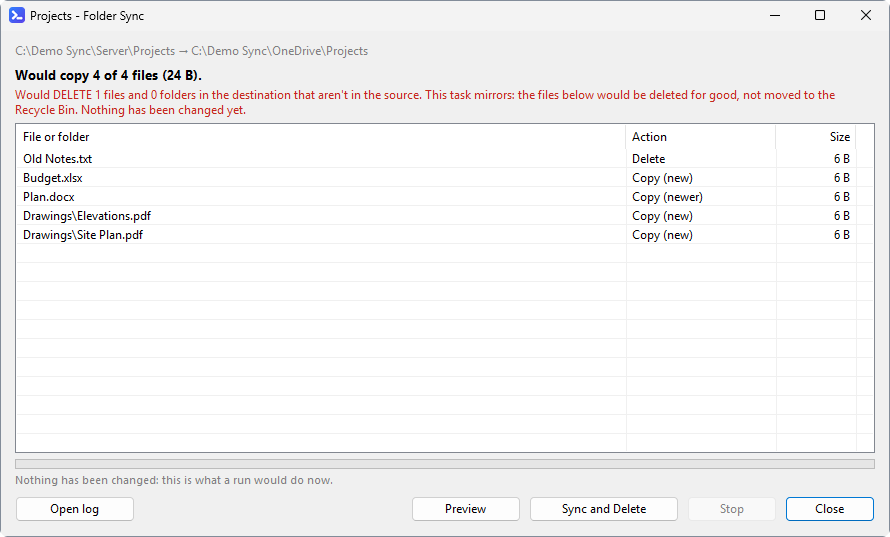
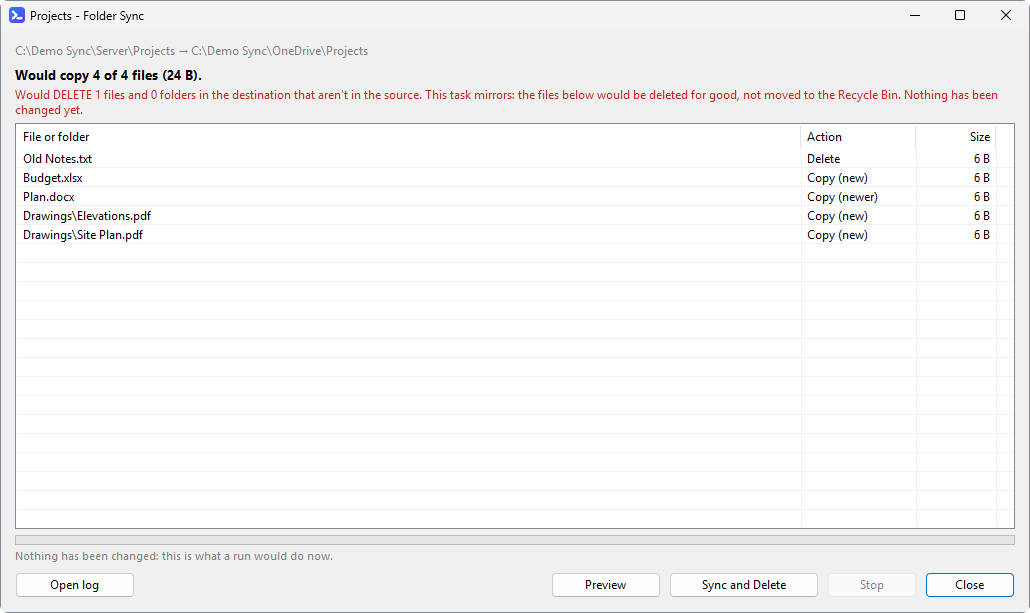
Folder Sync Window: Redraw When Resized, Fitted Action Column, Bigger by Default (Test Build 2026.11.03.8) (#377)
The Folder Sync window is redrawn after each layout (resizing left pieces of the texts and buttons behind), the Action column fits the longest action text in the current language, and the window is 1000 wide with 20 list rows by default.

diff --git a/CHANGELOG.md b/CHANGELOG.md
@@ -5,6 +5,18 @@
 
 ## [未发布]
 
+## [2026.11.03.8]
+
+测试版。
+
+Test build.
+
+### 改进
+- 文件夹同步窗口默认更大 (更宽、列表多显示几行); "操作" 一列按当前语言里最长的操作文字定宽, 多出来的宽度留给文件路径
+
+### 修复
+- 拖动改变文件夹同步窗口的大小时画面会花掉 (文字和按钮留下残影): 调整布局后整个窗口重新绘制
+
 ## [2026.11.03.7]
 
 测试版。
@@ -1107,7 +1119,8 @@ Smoother typing, easier to get started, and a few useful new features.
 ## 更早的版本
 见 [GitHub Releases](https://github.com/zhugecaomao/ALTRun/releases)。
 
-[未发布]: https://github.com/zhugecaomao/ALTRun/compare/2026.11.03.7...HEAD
+[未发布]: https://github.com/zhugecaomao/ALTRun/compare/2026.11.03.8...HEAD
+[2026.11.03.8]: https://github.com/zhugecaomao/ALTRun/compare/2026.11.03.7...2026.11.03.8
 [2026.11.03.7]: https://github.com/zhugecaomao/ALTRun/compare/2026.11.03.6...2026.11.03.7
 [2026.11.03.6]: https://github.com/zhugecaomao/ALTRun/compare/2026.11.03.4...2026.11.03.6
 [2026.11.03.4]: https://github.com/zhugecaomao/ALTRun/compare/2026.11.03.3...2026.11.03.4
